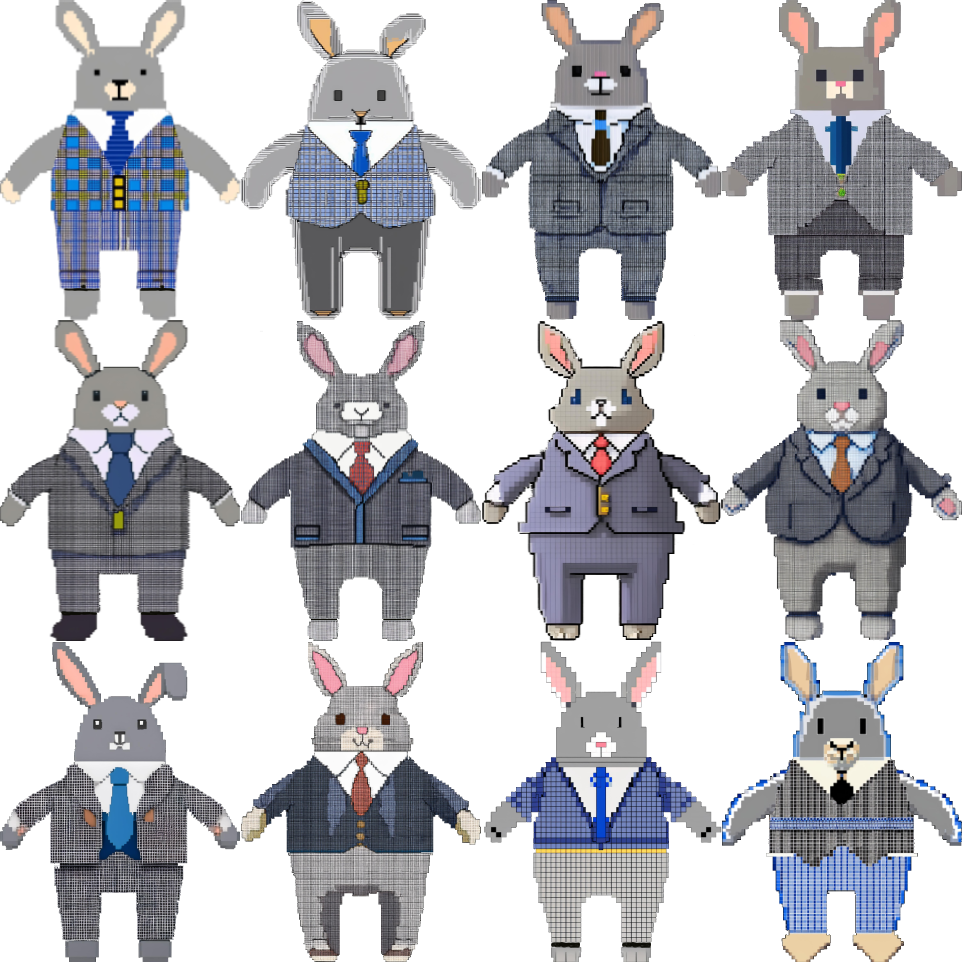
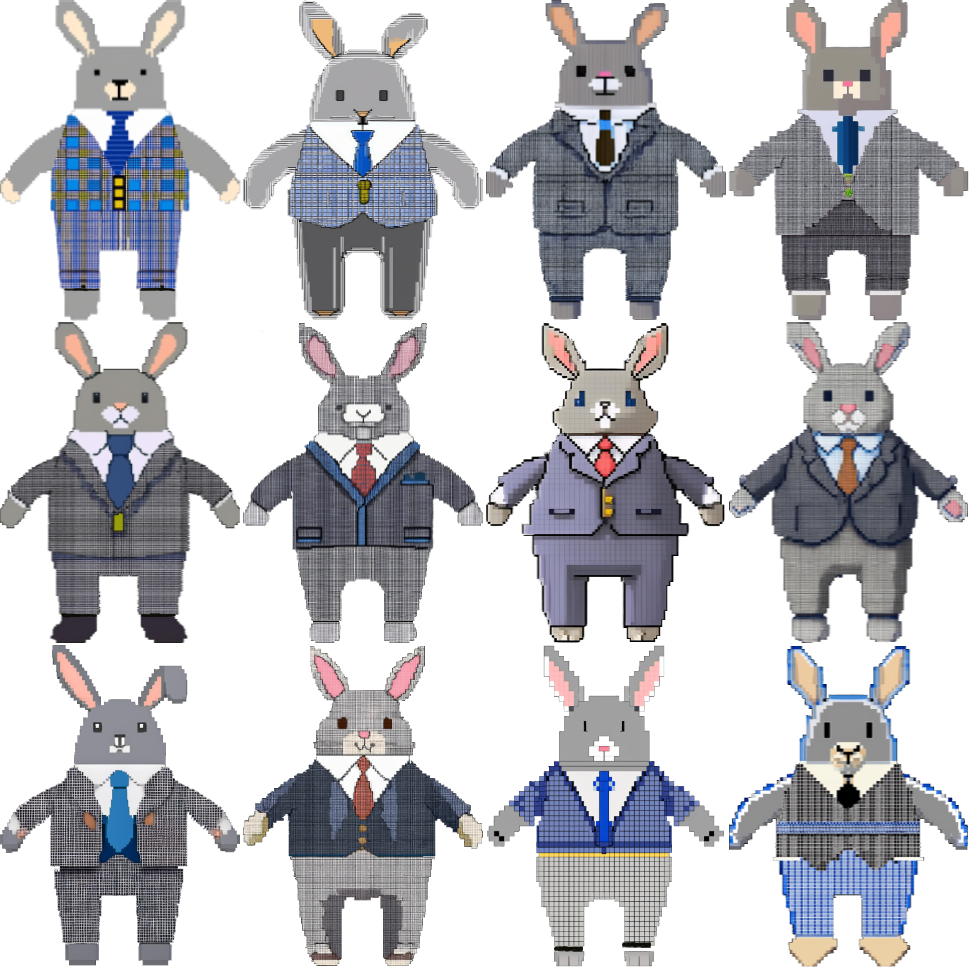
fix image

diff --git a/pages/index.vue b/pages/index.vue
@@ -73,8 +73,8 @@
       [ ...Array(12) ].forEach((_, i) => {
         bioSprites.push({
           img: tilesheet,
-          sourceX: (i % 4) * bunnyWidth + (i % 4) * 1,
-          sourceY: Math.floor(i/4) * bunnyHeight + Math.floor(i/4) * 1,
+          sourceX: (i % 4) * bunnyWidth + (i % 4) * 3,
+          sourceY: Math.floor(i/4) * bunnyHeight + Math.floor(i/4) * 3,
           sourceWidth: bunnyWidth,
           sourceHeight: bunnyHeight,
           type: Types.IMAGE
@@ -83,8 +83,8 @@
       [ ...Array(12) ].forEach((_, i) => {
         projectSprites.push({
           img: tilesheet,
-          sourceX: (i % 4) * bunnyWidth + (i % 4) * 1,
-          sourceY: Math.floor(i/4) * bunnyHeight + Math.floor(i/4) * 1,
+          sourceX: (i % 4) * bunnyWidth + (i % 4) * 3,
+          sourceY: Math.floor(i/4) * bunnyHeight + Math.floor(i/4) * 3,
           sourceWidth: bunnyWidth,
           sourceHeight: bunnyHeight,
           type: Types.IMAGE
@@ -93,8 +93,8 @@
       [ ...Array(12) ].forEach((_, i) => {
         blogSprites.push({
           img: tilesheet,
-          sourceX: (i % 4) * bunnyHeight + (i % 4) * 1,
-          sourceY: Math.floor(i/4) * bunnyWidth + Math.floor(i/4) * 1,
+          sourceX: (i % 4) * bunnyHeight + (i % 4) * 3,
+          sourceY: Math.floor(i/4) * bunnyWidth + Math.floor(i/4) * 3,
           sourceWidth: bunnyWidth,
           sourceHeight: bunnyHeight,
           type: Types.IMAGE
